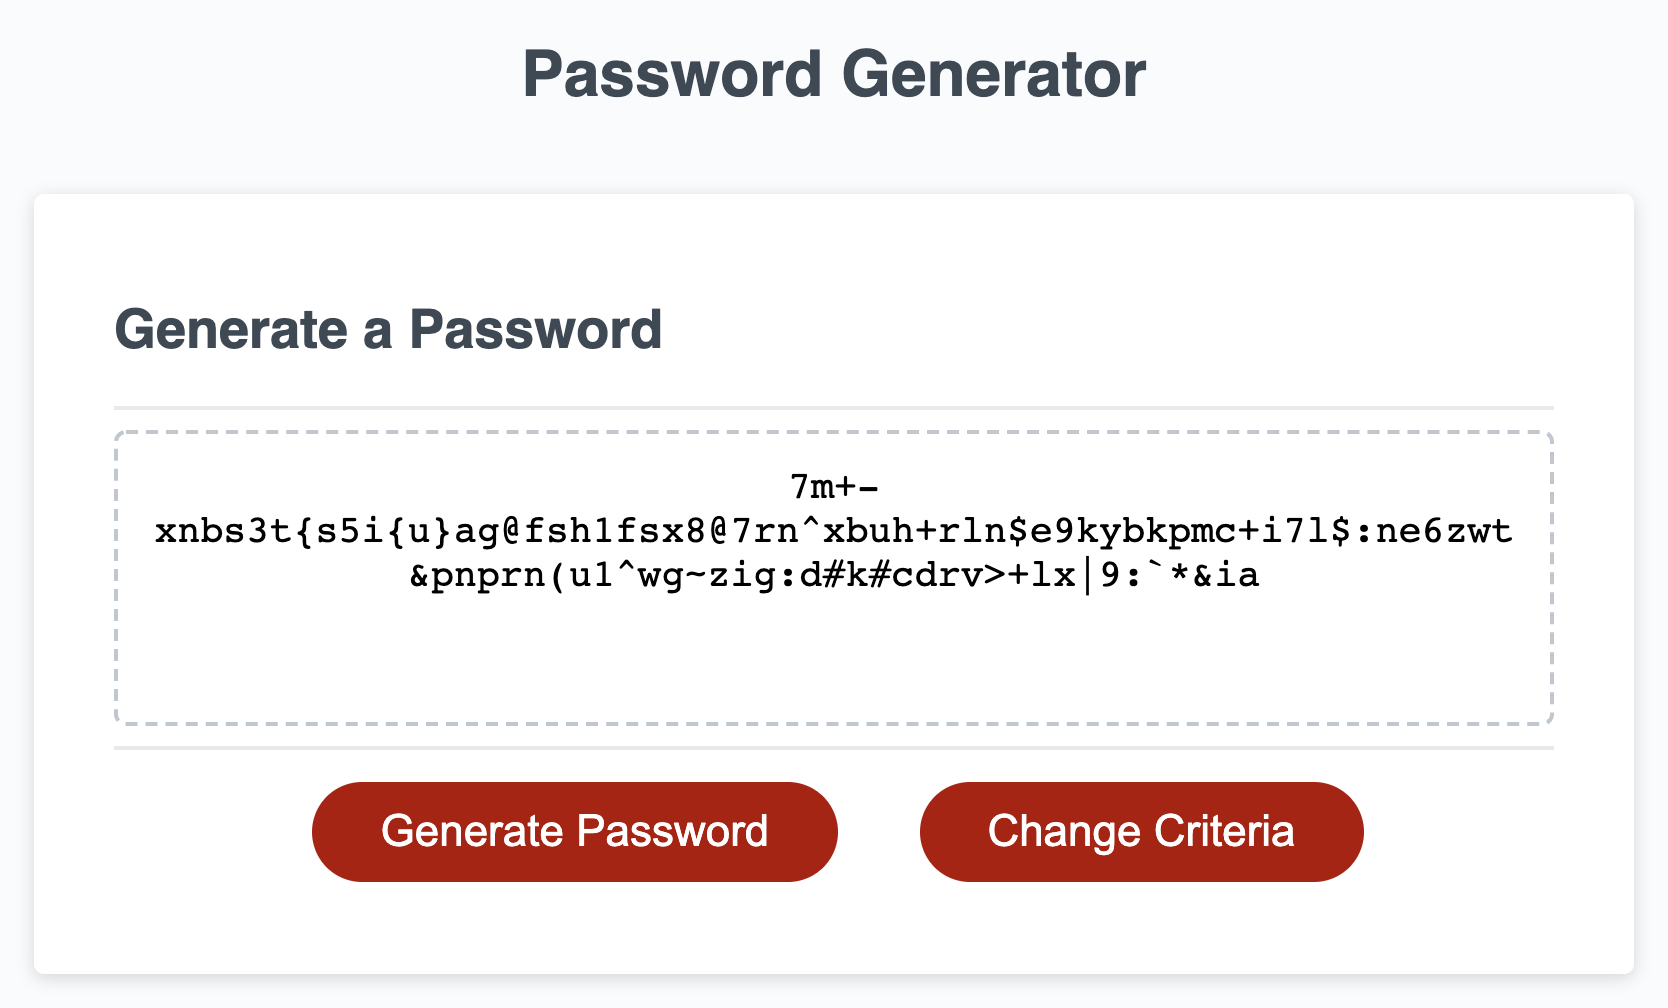
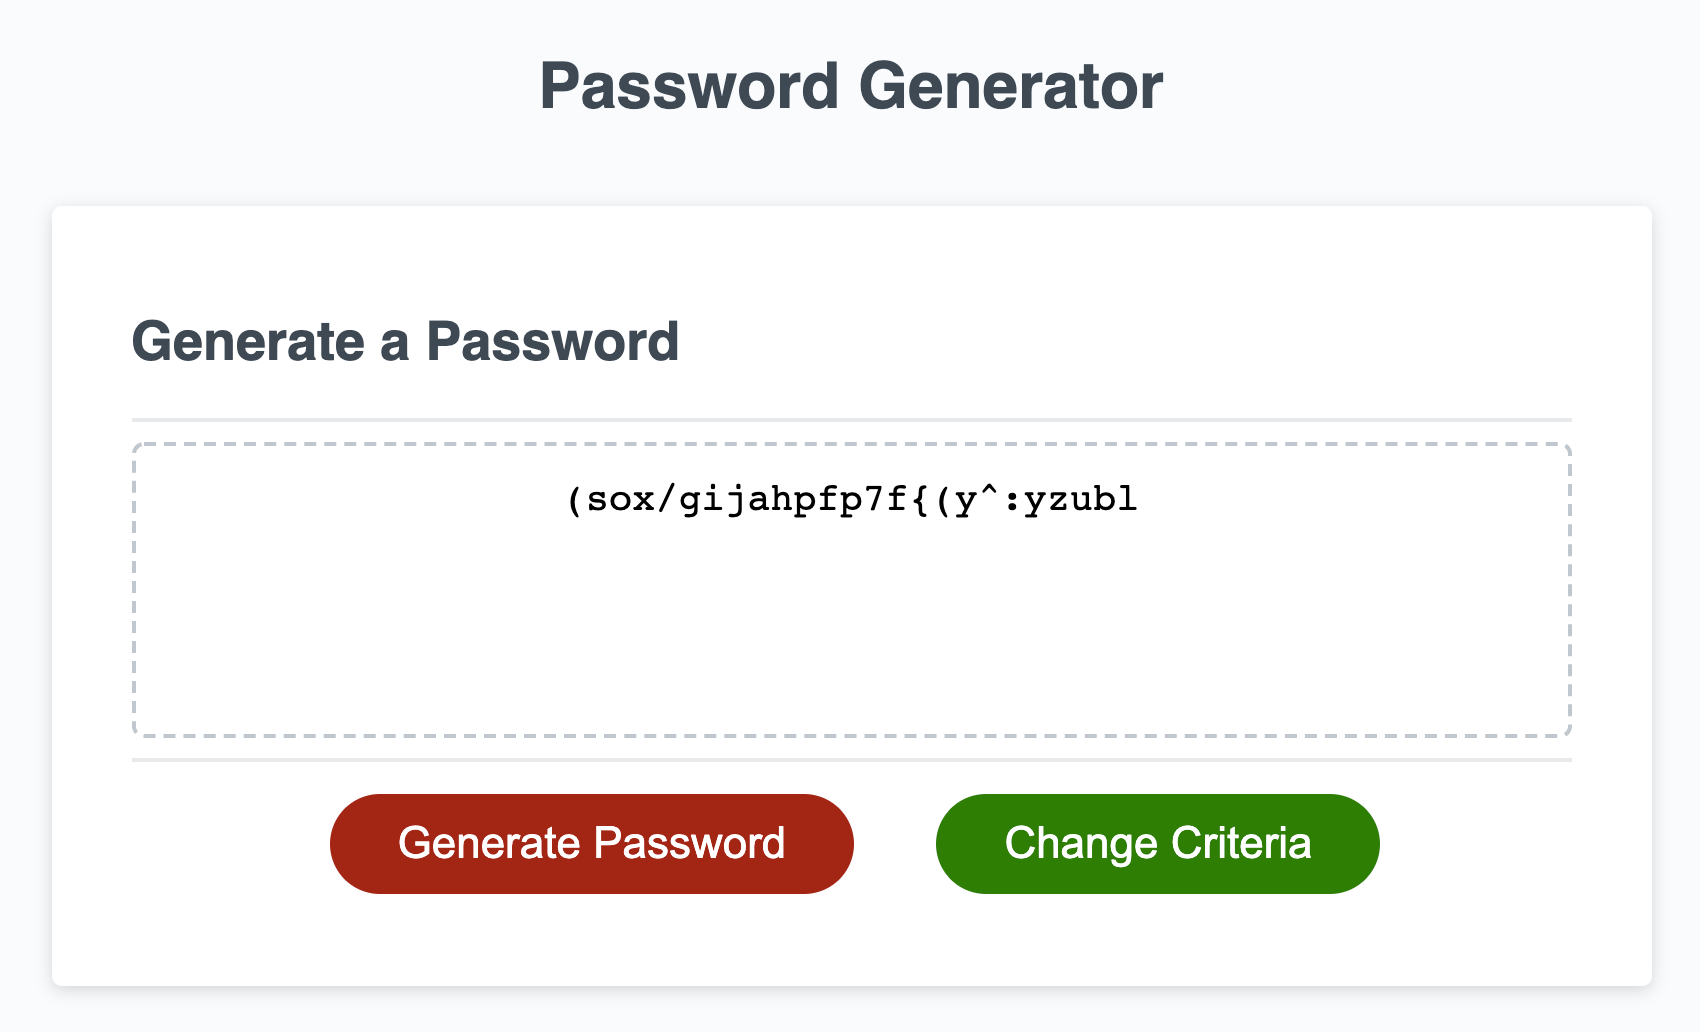
changed criteria button color, added more comments, refactor with obj destructor

diff --git a/assets/script.js b/assets/script.js
@@ -33,11 +33,10 @@ class Password{
     return this.password;
   }
 }
-// Write password to the #password input
+// Write password to the #password input -- added destructing
 function writePassword() {
-  let PassCriteria = { raw: {}, validated: {} };
-  let raw = PassCriteria.raw;
-  let validated = PassCriteria.validated;
+  const passCriteria = { raw: {}, validated: {} };
+  const {raw, validated} = passCriteria
   // Collect password length.
   raw.passLength = parseInt(prompt('How long would you like password to be? (8 - 128)', 10));
   if (raw.passLength < 8 || raw.passLength > 128) {
@@ -53,6 +52,7 @@ function writePassword() {
     validated.useLower = true;
     validated.useUpper = true;
   }
+  //alert if both false (must beither upper or lower)
   if (!validated.useLower && !validated.useUpper) {
     alert('You have to choose at least one option!!!');
     writePassword();
@@ -66,9 +66,10 @@ function writePassword() {
     validated.useSpecial = true;
   }
   //logout object raw & validated
-  console.log(PassCriteria);
-  //Generate Password
-  myPass = new Password(validated.passLength, validated.useLower, validated.useUpper, validated.useNumber, validated.useSpecial)
+  console.log(passCriteria);
+  //Generate Password -- added destructing
+  const { passLength, useLower, useUpper, useNumber, useSpecial } = validated;
+  myPass = new Password(passLength, useLower, useUpper, useNumber, useSpecial)
   //write password to textArea
   textArea.value = myPass.password;
 }

diff --git a/assets/style.css b/assets/style.css
@@ -76,8 +76,7 @@ header {
   border: none;
   background-color: hsl(360, 91%, 36%);
   border-radius: 25px;
-  box-shadow: rgba(0, 0, 0, 0.1) 0px 1px 6px 0px rgba(0, 0, 0, 0.2) 0px 1px 1px
-    0px;
+  box-shadow: rgba(0, 0, 0, 0.1) 0px 1px 6px 0px rgba(0, 0, 0, 0.2) 0px 1px 1px 0px;
   color: hsl(0, 0%, 100%);
   display: inline-block;
   font-size: 22px;
@@ -86,6 +85,11 @@ header {
   padding: 14px 34px;
   text-align: center;
   cursor: pointer;
+}
+
+/* added to differentiated buttons */
+#criteria {
+  background-color: green;
 }
 
 button[disabled] {
